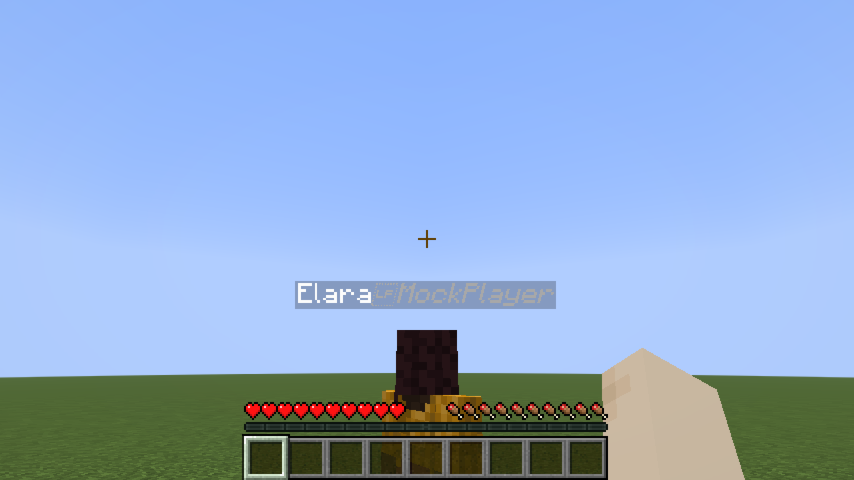
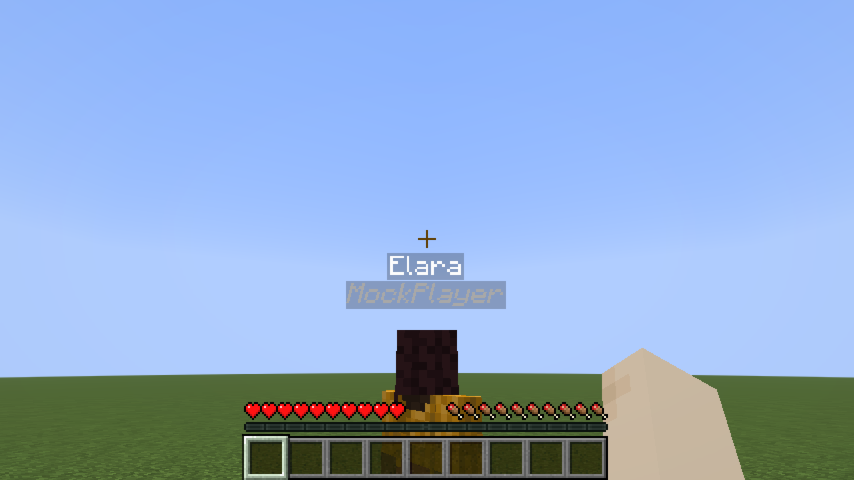
✨ feat: afficher le MC username en dessous du pseudo RP dans le nametag
Remplace l'approche \n (non supportée par le TextRenderer) par un mixin
sur PlayerEntityRenderer.updateRenderState qui injecte le MC username
dans state.playerName (slot "scoreboard below-name"), rendu automatiquement
en dessous du label principal par le moteur de rendu vanilla.

Mise à jour des screenshots de référence pour le gametest.

Changed region(s): [[0.3349, 0.5, 0.6698, 0.6562], [0.2131, 0.9688, 0.2436, 1.0]]

diff --git a/src/client/java/net/minecraftfr/roleplaychat/mixin/client/RpNameTagRendererMixin.java b/src/client/java/net/minecraftfr/roleplaychat/mixin/client/RpNameTagRendererMixin.java
@@ -1,0 +1,34 @@
+package net.minecraftfr.roleplaychat.mixin.client;
+
+import org.spongepowered.asm.mixin.Mixin;
+import org.spongepowered.asm.mixin.injection.At;
+import org.spongepowered.asm.mixin.injection.Inject;
+import org.spongepowered.asm.mixin.injection.callback.CallbackInfo;
+
+import net.minecraft.client.network.AbstractClientPlayerEntity;
+import net.minecraft.client.render.entity.PlayerEntityRenderer;
+import net.minecraft.client.render.entity.state.PlayerEntityRenderState;
+import net.minecraft.util.Formatting;
+import net.minecraftfr.roleplaychat.nameplate.RpNameClientCache;
+
+/**
+ * Quand un pseudo RP est actif, injecte le MC username dans {@code state.playerName}
+ * pour qu'il apparaisse en dessous du pseudo RP dans le nametag.
+ *
+ * <p>Le {@code PlayerEntityRenderer} rend {@code state.playerName} en bas,
+ * puis translate vers le haut et rend le label principal ({@code getDisplayName()}) au-dessus.
+ */
+@Mixin(PlayerEntityRenderer.class)
+public abstract class RpNameTagRendererMixin {
+
+    @Inject(
+        method = "updateRenderState(Lnet/minecraft/client/network/AbstractClientPlayerEntity;Lnet/minecraft/client/render/entity/state/PlayerEntityRenderState;F)V",
+        at = @At("RETURN")
+    )
+    private void injectRpPlayerName(AbstractClientPlayerEntity entity, PlayerEntityRenderState state, float tickDelta, CallbackInfo ci) {
+        String rp = RpNameClientCache.get(entity.getUuid());
+        if (rp != null) {
+            state.playerName = entity.getName().copy().formatted(Formatting.GRAY, Formatting.ITALIC);
+        }
+    }
+}

diff --git a/src/client/java/net/minecraftfr/roleplaychat/mixin/client/RpNameTagMixin.java b/src/client/java/net/minecraftfr/roleplaychat/mixin/client/RpNameTagMixin.java
@@ -7,9 +7,7 @@ import org.spongepowered.asm.mixin.injection.callback.CallbackInfoReturnable;
 
 import net.minecraft.client.network.AbstractClientPlayerEntity;
 import net.minecraft.entity.player.PlayerEntity;
-import net.minecraft.text.MutableText;
 import net.minecraft.text.Text;
-import net.minecraft.util.Formatting;
 import net.minecraftfr.roleplaychat.nameplate.RpNameClientCache;
 
 /**
@@ -34,11 +32,7 @@ public abstract class RpNameTagMixin {
     if (!((Object) this instanceof AbstractClientPlayerEntity self)) return;
     String rp = RpNameClientCache.get(self.getUuid());
     if (rp != null) {
-      String mcName = self.getName().getString();
-      MutableText label = Text.literal(rp)
-          .append(Text.literal("\n" + mcName)
-              .formatted(Formatting.GRAY, Formatting.ITALIC));
-      cir.setReturnValue(label);
+      cir.setReturnValue(Text.literal(rp));
     }
   }
 }
